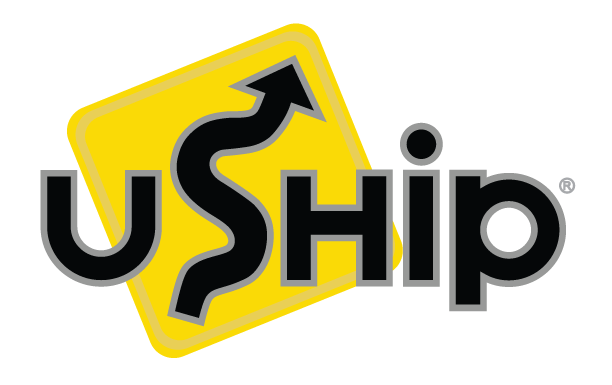
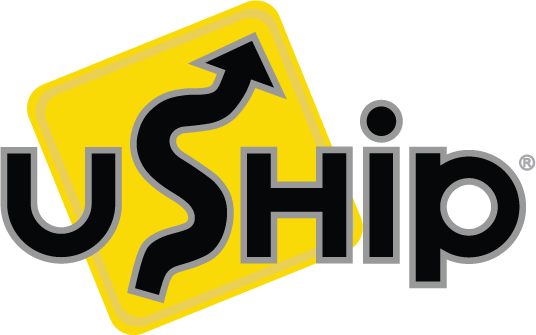
fixed some partner images

diff --git a/css/style.css b/css/style.css
@@ -1,1 +1,1 @@
-@import "https://fonts.googleapis.com/css?family=Josefin+Sans";*{color:#EAF0CE;font-family:'Josefin Sans', sans-serif}body{background:#E7F3FB}.bg{height:100vh;background:radial-gradient(rgba(0,0,0,0.9) 5%,rgba(0,0,0,0.7) 15%,rgba(0,0,0,0.3)),url(../images/cover-min.png) no-repeat fixed center;background-size:100% 100%}.header{margin-bottom:-161px}.logo{width:15%;height:auto;margin-top:-10px}.content{top:50%;left:50%;transform:translate3d(-50%, -50%, 0);position:absolute}.hacktx-logo{width:100%;display:block;margin:auto;padding-bottom:20px}.teaser-text{font-size:3em;text-align:center;font-weight:bold}.title-buttons{background:#CE0019;transition:all 0.5s ease;border:none;border-radius:3px;color:#EAF0CE;font-size:2em;padding:18px 5px;text-decoration:none !important;text-shadow:0 0 0}.title-buttons:hover{background:#e6001b;text-decoration:none;color:#EAF0CE}@media (max-width: 660px){.teaser-text{font-size:2em;text-align:center}.bg{height:100vh;background:radial-gradient(rgba(0,0,0,0.9) 5%,rgba(0,0,0,0.7) 15%,rgba(0,0,0,0.3)),url(../images/cover-min.png) no-repeat fixed center}}@media (max-width: 480px){.logo{width:100px;margin:0 auto;margin-top:-5px;margin-bottom:24px}}.transition{margin-top:5em}.about{height:100%;width:100%;position:relative;background-size:100% 100%;background:#E7F3FB}.about h1{color:#CB0922;font-size:5em;font-weight:bold;text-align:center}.about p{color:#4E4E4E;font-size:2em}.about .alert{color:#e45243}.about .alert fa{color:#e45243}.about .alert--success{color:#26A65B}.about .alert--success .fa{color:#26A65B}.about .about-content p{text-align:center;margin:auto}.about .about-content h2{color:#e45243;font-size:2em}.about .about-content .mailing-list{text-align:center;font-size:2em}.about .about-content .mailing-list input[type=email]{width:80%;color:#124e78;padding:12px 20px;margin:8px 0;box-sizing:border-box}.about .about-content .mailing-list input[type=submit]{height:100%;padding:12px 20px;background:#e45243;border:0 none;cursor:pointer}.about .hype-video{margin-top:3em;height:50vh;width:100%;background-size:100% 100%;background:#E6E6E6;margin-bottom:3em}@media (max-width: 768px){.about .hype-video{display:none}}.faq{height:100%;width:100%;position:relative;background-size:100% 100%;background:#124e78}.faq .faq-content{padding-top:3em}.faq .faq-content h1{text-align:center;font-size:5em;text-shadow:1.5px 1.5px 1.5px #CB0922;margin-bottom:1em}.faq .faq-content .faq-info{position:relative;text-align:left;margin-top:1em}.faq .faq-content .faq-info .top-dark-blue{background-image:url("../images/textbox1.png");background-size:100% 100%;height:11em;width:100%;background-repeat:no-repeat;background-position:left top;position:relative}.faq .faq-content .faq-info .top-dark-blue p{position:absolute;left:5%;top:15%;font-weight:bold;font-size:2em;color:#E6E6E6}.faq .faq-content .faq-info .small-question{height:9em}.faq .faq-content .faq-info .faq-entry{margin-bottom:1em}.faq .faq-content .faq-info .huge-text{height:25em !important}.faq .faq-content .faq-info .huge-text p{top:31% !important}.faq .faq-content .faq-info .medium-text{height:18em !important}.faq .faq-content .faq-info .medium-text p{top:40% !important}.faq .faq-content .faq-info .small-text{height:13em !important}.faq .faq-content .faq-info .opposite-direction-bot{background-image:url("../images/textbox2reversed.png") !important}.faq .faq-content .faq-info .opposite-direction-top{background-image:url("../images/textbox1reversed.png") !important}.faq .faq-content .faq-info .bot-light-blue{background-image:url("../images/textbox2.png");height:15em;background-repeat:no-repeat;background-position:left top;background-size:100% 100%;margin-top:-2em}.faq .faq-content .faq-info .bot-light-blue p{padding-left:0.5em;text-align:left;position:absolute;width:90%;top:50%;font-size:1.3em;color:#4E4E4E}.partners{height:100%;width:100%;background-size:100% 100%;background:#E7F3FB}.partners h1{color:#CB0922;font-size:5em;font-weight:bold;text-align:center}.partners .partner-row .partner-entry{margin-top:4em}.partners .rest-partners img{height:100%;width:100%}.partners .two-per-partners img{height:100%;width:100%;margin-top:3em}.partners .col-centered{display:inline-block;float:none;text-align:left;margin-right:-4px}.partners p{margin-top:2em;margin-bottom:2em;text-align:center;color:#4E4E4E;font-size:2em}.partners #mlh{width:35%;height:50%}.partners #microsoft{width:50%}.partners #utcs{width:50%}@media (max-width: 768px){.partners #palantir{margin-top:-8em}.partners #mlh{width:50%;height:50%}.partners #microsoft{width:75%}.partners #utcs{width:75%}}.footer{height:100%;width:100%;position:relative;background-size:100% 100%;background:#CB0922}.footer .footer-info-row{margin-top:4em;margin-bottom:3em;text-align:center}.footer .footer-info-row img{margin-left:1em;text-align:justify;height:4em;width:4em;display:inline-block}.footer p{text-align:center;font-size:1.5em;color:#E7F3FB;padding-bottom:1em}.footer i{color:#E7F3FB}
+@import "https://fonts.googleapis.com/css?family=Josefin+Sans";*{color:#EAF0CE;font-family:'Josefin Sans', sans-serif}body{background:#E7F3FB}.bg{height:100vh;background:radial-gradient(rgba(0,0,0,0.9) 5%,rgba(0,0,0,0.7) 15%,rgba(0,0,0,0.3)),url(../images/cover-min.png) no-repeat fixed center;background-size:100% 100%}.header{margin-bottom:-161px}.logo{width:15%;height:auto;margin-top:-10px}.content{top:50%;left:50%;transform:translate3d(-50%, -50%, 0);position:absolute}.hacktx-logo{width:100%;display:block;margin:auto;padding-bottom:20px}.teaser-text{font-size:3em;text-align:center;font-weight:bold}.title-buttons{background:#CE0019;transition:all 0.5s ease;border:none;border-radius:3px;color:#EAF0CE;font-size:2em;padding:18px 5px;text-decoration:none !important;text-shadow:0 0 0}.title-buttons:hover{background:#e6001b;text-decoration:none;color:#EAF0CE}@media (max-width: 660px){.teaser-text{font-size:2em;text-align:center}.bg{height:100vh;background:radial-gradient(rgba(0,0,0,0.9) 5%,rgba(0,0,0,0.7) 15%,rgba(0,0,0,0.3)),url(../images/cover-min.png) no-repeat fixed center}}@media (max-width: 480px){.logo{width:100px;margin:0 auto;margin-top:-5px;margin-bottom:24px}}.transition{margin-top:5em}.about{height:100%;width:100%;position:relative;background-size:100% 100%;background:#E7F3FB}.about h1{color:#CB0922;font-size:5em;font-weight:bold;text-align:center}.about p{color:#4E4E4E;font-size:2em}.about .alert{color:#e45243}.about .alert fa{color:#e45243}.about .alert--success{color:#26A65B}.about .alert--success .fa{color:#26A65B}.about .about-content p{text-align:center;margin:auto}.about .about-content h2{color:#e45243;font-size:2em}.about .about-content .mailing-list{text-align:center;font-size:2em}.about .about-content .mailing-list input[type=email]{width:80%;color:#124e78;padding:12px 20px;margin:8px 0;box-sizing:border-box}.about .about-content .mailing-list input[type=submit]{height:100%;padding:12px 20px;background:#e45243;border:0 none;cursor:pointer}.about .hype-video{margin-top:3em;height:50vh;width:100%;background-size:100% 100%;background:#E6E6E6;margin-bottom:3em}@media (max-width: 768px){.about .hype-video{display:none}}.faq{height:100%;width:100%;position:relative;background-size:100% 100%;background:#124e78}.faq .faq-content{padding-top:3em}.faq .faq-content h1{text-align:center;font-size:5em;text-shadow:1.5px 1.5px 1.5px #CB0922;margin-bottom:1em}.faq .faq-content .faq-info{position:relative;text-align:left;margin-top:1em}.faq .faq-content .faq-info .top-dark-blue{background-image:url("../images/textbox1.png");background-size:100% 100%;height:11em;width:100%;background-repeat:no-repeat;background-position:left top;position:relative}.faq .faq-content .faq-info .top-dark-blue p{position:absolute;left:5%;top:15%;font-weight:bold;font-size:2em;color:#E6E6E6}.faq .faq-content .faq-info .small-question{height:9em}.faq .faq-content .faq-info .faq-entry{margin-bottom:1em}.faq .faq-content .faq-info .huge-text{height:25em !important}.faq .faq-content .faq-info .huge-text p{top:31% !important}.faq .faq-content .faq-info .medium-text{height:18em !important}.faq .faq-content .faq-info .medium-text p{top:40% !important}.faq .faq-content .faq-info .small-text{height:13em !important}.faq .faq-content .faq-info .opposite-direction-bot{background-image:url("../images/textbox2reversed.png") !important}.faq .faq-content .faq-info .opposite-direction-top{background-image:url("../images/textbox1reversed.png") !important}.faq .faq-content .faq-info .bot-light-blue{background-image:url("../images/textbox2.png");height:15em;background-repeat:no-repeat;background-position:left top;background-size:100% 100%;margin-top:-2em}.faq .faq-content .faq-info .bot-light-blue p{padding-left:0.5em;text-align:left;position:absolute;width:90%;top:50%;font-size:1.3em;color:#4E4E4E}.partners{height:100%;width:100%;background-size:100% 100%;background:#E7F3FB}.partners h1{color:#CB0922;font-size:5em;font-weight:bold;text-align:center}.partners .partner-row{vertical-align:middle}.partners .partner-row .partner-entry{margin-top:4em}.partners .rest-partners img{height:100%;width:100%}.partners .two-per-partners img{height:100%;width:100%}.partners .col-centered{display:inline-block;float:none;text-align:left;margin-right:-4px}.partners p{margin-top:2em;margin-bottom:2em;text-align:center;color:#4E4E4E;font-size:2em}.partners #mlh{width:35%;height:50%}.partners #microsoft{width:50%}.partners #utcs{width:50%}@media (max-width: 768px){.partners #palantir{margin-top:-8em}.partners #mlh{width:50%;height:50%}.partners #microsoft{width:75%}.partners #utcs{width:75%}}.footer{height:100%;width:100%;position:relative;background-size:100% 100%;background:#CB0922}.footer .footer-info-row{margin-top:4em;margin-bottom:3em;text-align:center}.footer .footer-info-row img{margin-left:1em;text-align:justify;height:4em;width:4em;display:inline-block}.footer p{text-align:center;font-size:1.5em;color:#E7F3FB;padding-bottom:1em}.footer i{color:#E7F3FB}

diff --git a/sass/style.scss b/sass/style.scss
@@ -275,6 +275,7 @@ body {
 		.partner-entry {
 			margin-top: 4em;
 		}
+		vertical-align: middle;
 	}
 
 	.rest-partners {
@@ -288,7 +289,7 @@ body {
 		img {
 			height: 100%;
 			width: 100%;
-			margin-top: 3em;
+//			margin-top: 3em;
 		}
 	}
 	.col-centered {
